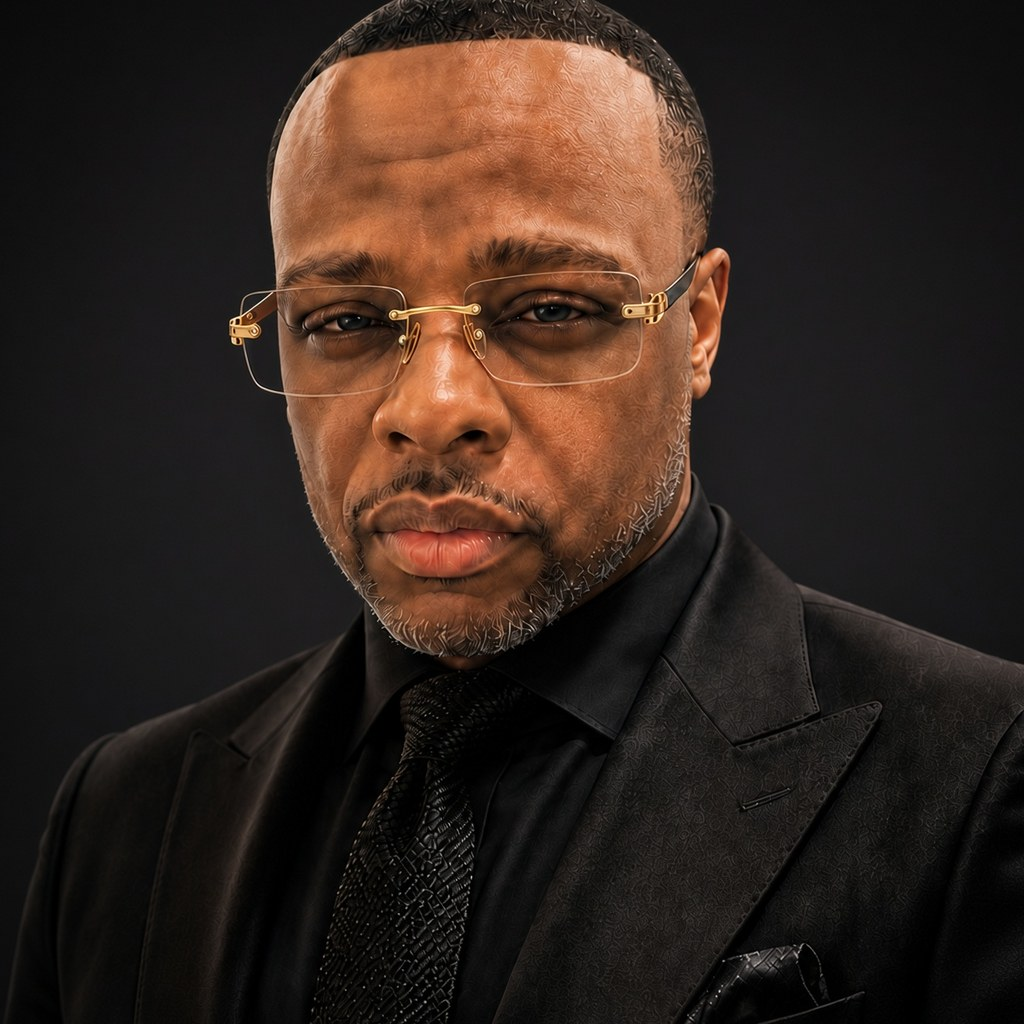
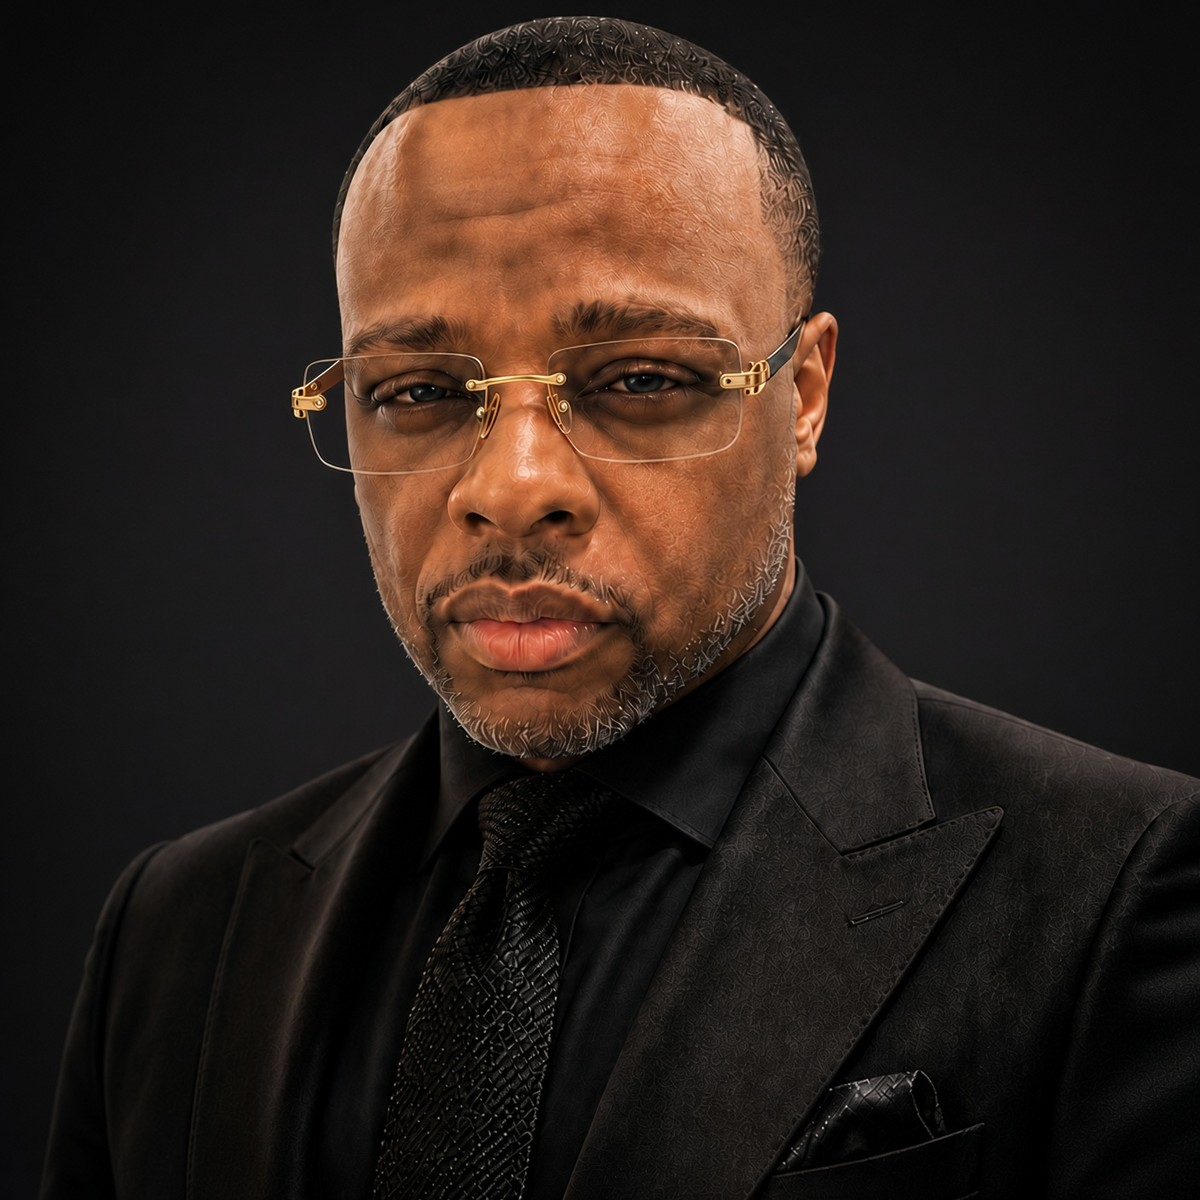
Show the full 1:1 portrait in the hero, uncropped

diff --git a/styles.css b/styles.css
@@ -80,17 +80,31 @@ img { max-width: 100%; display: block; }
 }
 .primary-cta svg { width: 23px; fill: none; stroke: currentColor; stroke-width: 1.3; }
 .hero-sigil { justify-self: end; width: min(32vw, 450px); aspect-ratio: 1; position: relative; display: grid; place-items: center; }
+.hero-sigil.hero-portrait {
+  width: min(40vw, 540px);
+  aspect-ratio: auto;
+  display: flex;
+  flex-direction: column;
+  align-items: center;
+  gap: 18px;
+}
+.hero-sigil.hero-portrait .sigil-halo { display: none; }
 .hero-sigil.hero-portrait img {
-  width: 82%;
-  aspect-ratio: 1;
-  object-fit: cover;
-  object-position: 50% 12%;
-  border-radius: 50%;
-  border: 1px solid rgba(198,167,94,.45);
+  width: 100%;
+  height: auto;
+  aspect-ratio: 1 / 1;
+  object-fit: contain;
+  object-position: center center;
+  border-radius: 0;
+  border: 1px solid rgba(198,167,94,.42);
   position: relative;
   z-index: 1;
 }
-.hero-sigil.hero-portrait p { bottom: 0; z-index: 2; }
+.hero-sigil.hero-portrait p {
+  position: static;
+  bottom: auto;
+  z-index: 2;
+}
 .hero-sigil p { position: absolute; bottom: 1%; margin: 0; color: var(--gold); font-family: var(--serif); font-size: 9px; letter-spacing: .45em; text-transform: uppercase; }
 .sigil-halo { position: absolute; inset: 5%; border-radius: 50%; border: 1px solid rgba(198,167,94,.16); }
 .hero-index { position: absolute; left: 0; bottom: 38px; display: flex; align-items: flex-end; gap: 14px; }
@@ -663,6 +677,7 @@ footer small {
   .hero { display: block; padding-top: 140px; }
   .hero h1 { font-size: clamp(3.2rem, 18vw, 5.2rem); line-height: .86; }
   .hero-sigil { width: min(58vw, 280px); margin: 36px 0 0 auto; }
+  .hero-sigil.hero-portrait { width: min(86vw, 380px); }
   .hero-lower { display: block; }
   .primary-cta { margin-top: 26px; }
   .manifesto-grid, .capability-grid, .impact-grid, .proof-bar, .story-frame, .career, .firm-grid, .principles, .contact, .inquiry-purpose { display: block; }

diff --git a/index.html b/index.html
@@ -97,7 +97,7 @@
 
       <div class="hero-sigil hero-portrait tilt-card" data-tilt data-reveal>
         <div class="sigil-halo"></div>
-        <img src="assets/portrait.jpg" alt="Wendell Rowe" width="1024" height="1024" />
+        <img src="assets/portrait.jpg" alt="Wendell Rowe" width="1200" height="1200" />
         <p>Vincit Qui Se Vincit</p>
       </div>
 
